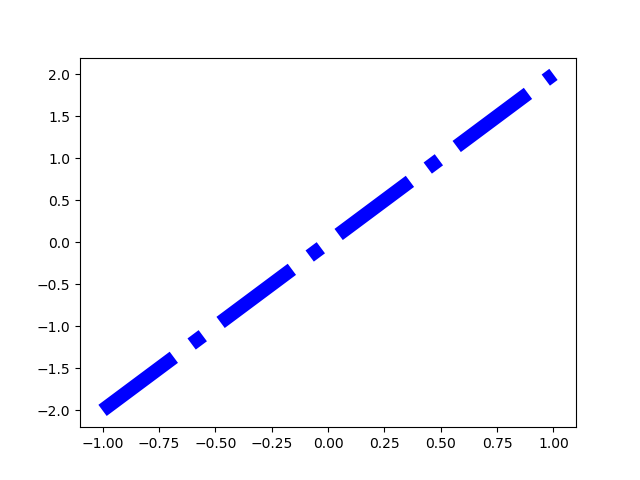
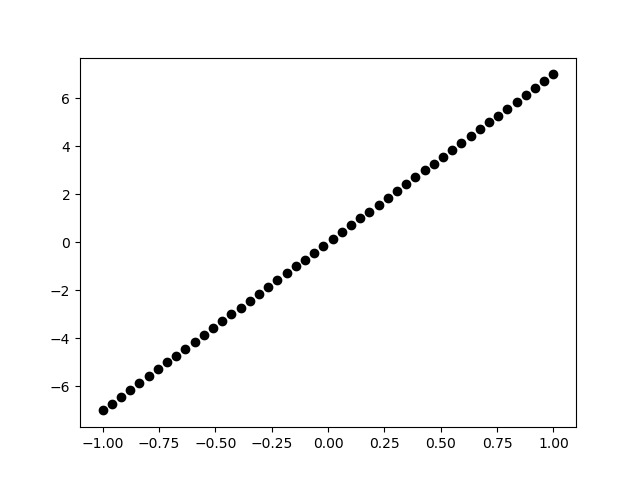
first commit

diff --git a/example.py b/example.py
@@ -2,7 +2,7 @@ import matplotlib.pyplot as plt
 import numpy as np
 
 x = np.linspace(-1, 1, 50)
-y = 2*x
+y = 7*x
 
-plt.plot(x, y,'b-.',linewidth=10)
+plt.plot(x, y,'ko',linewidth=2)
 plt.savefig('chart.png')

diff --git a/README.md b/README.md
@@ -1,4 +1,4 @@
-# Line Chart Mary 
+# Line Chart Kate 
 
 Chart example for Python
 
